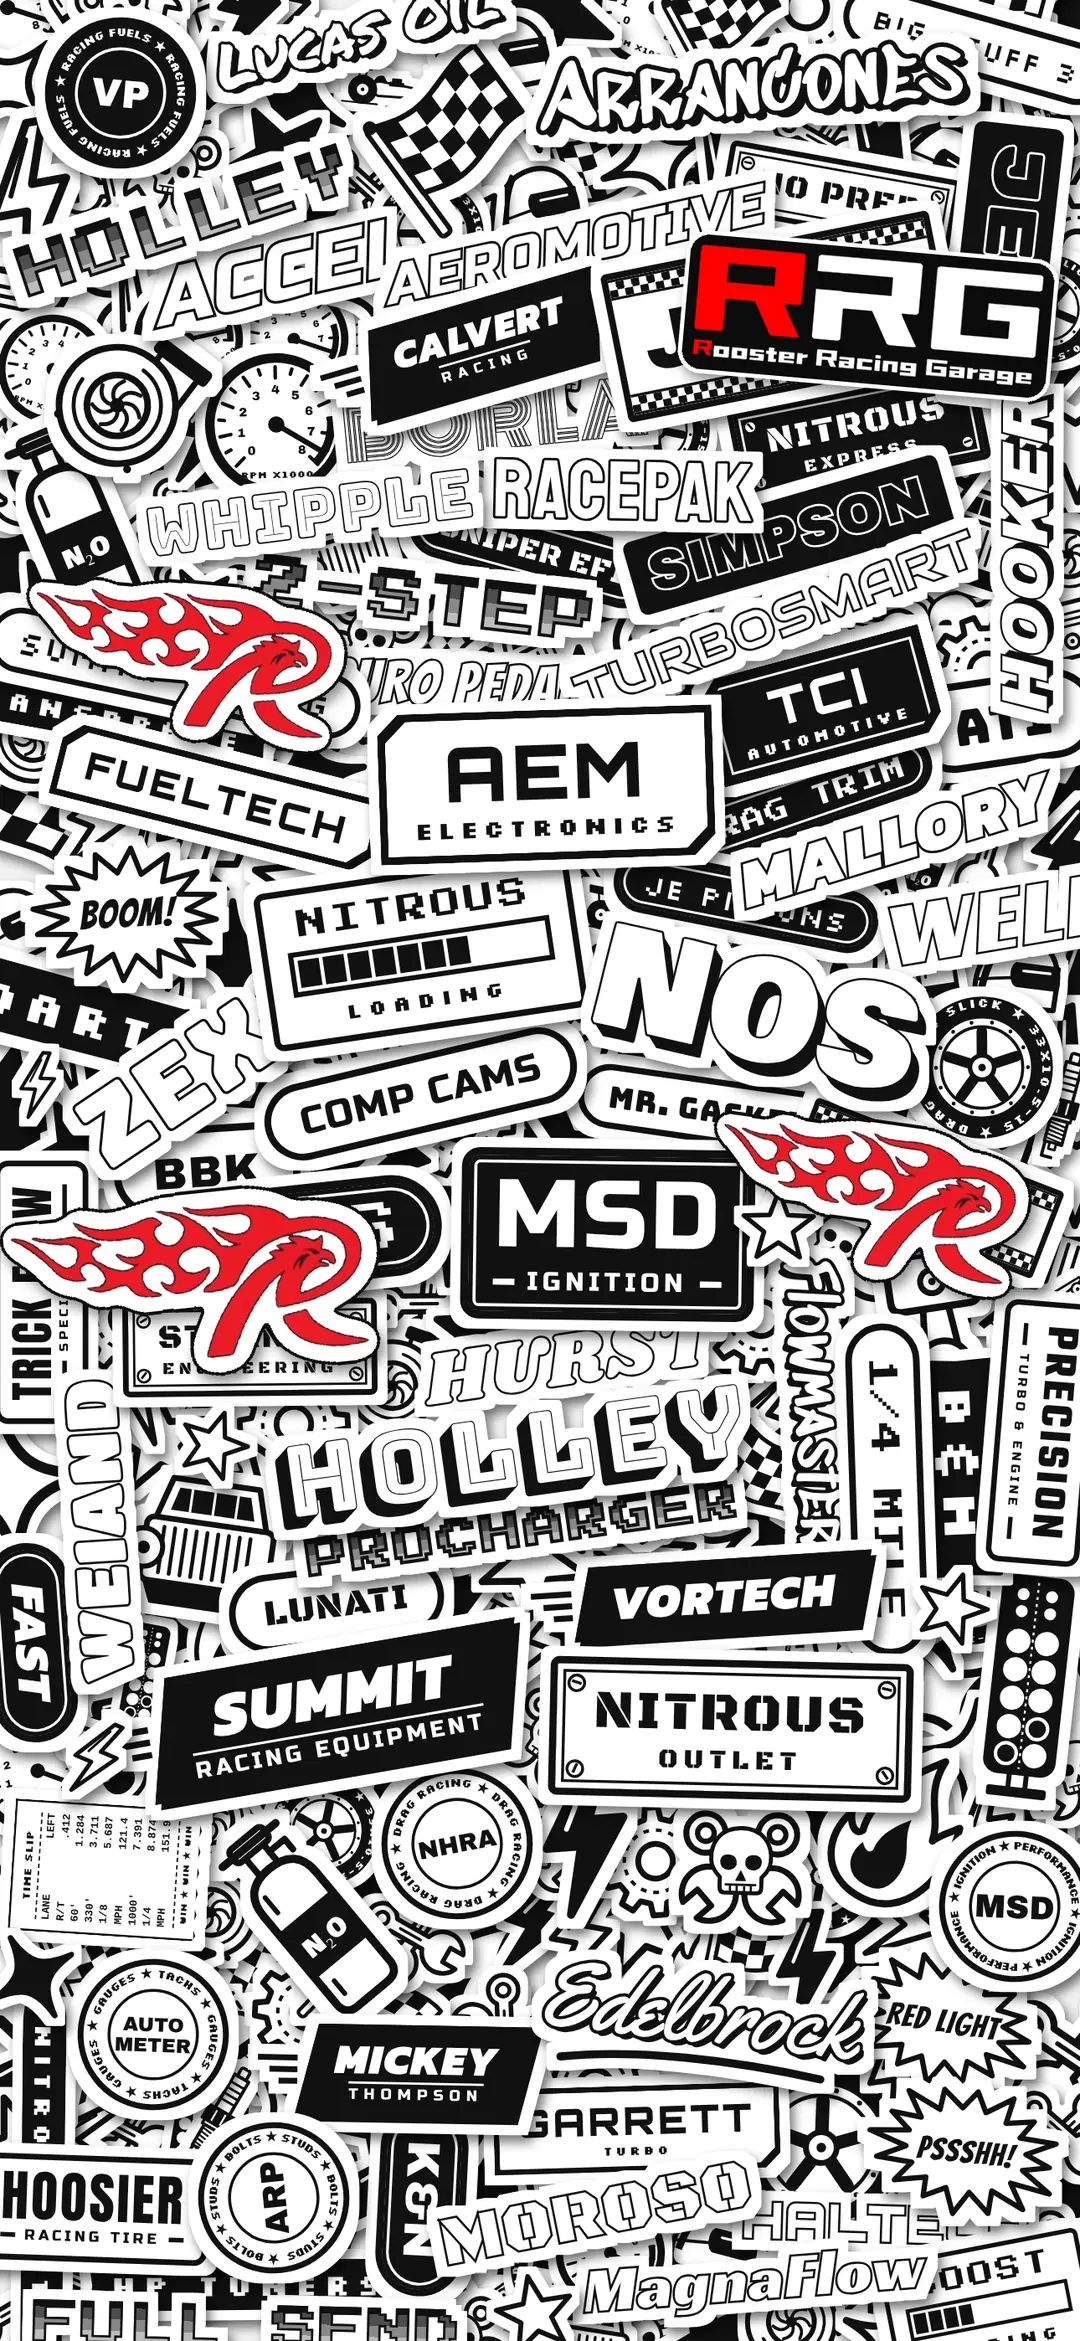
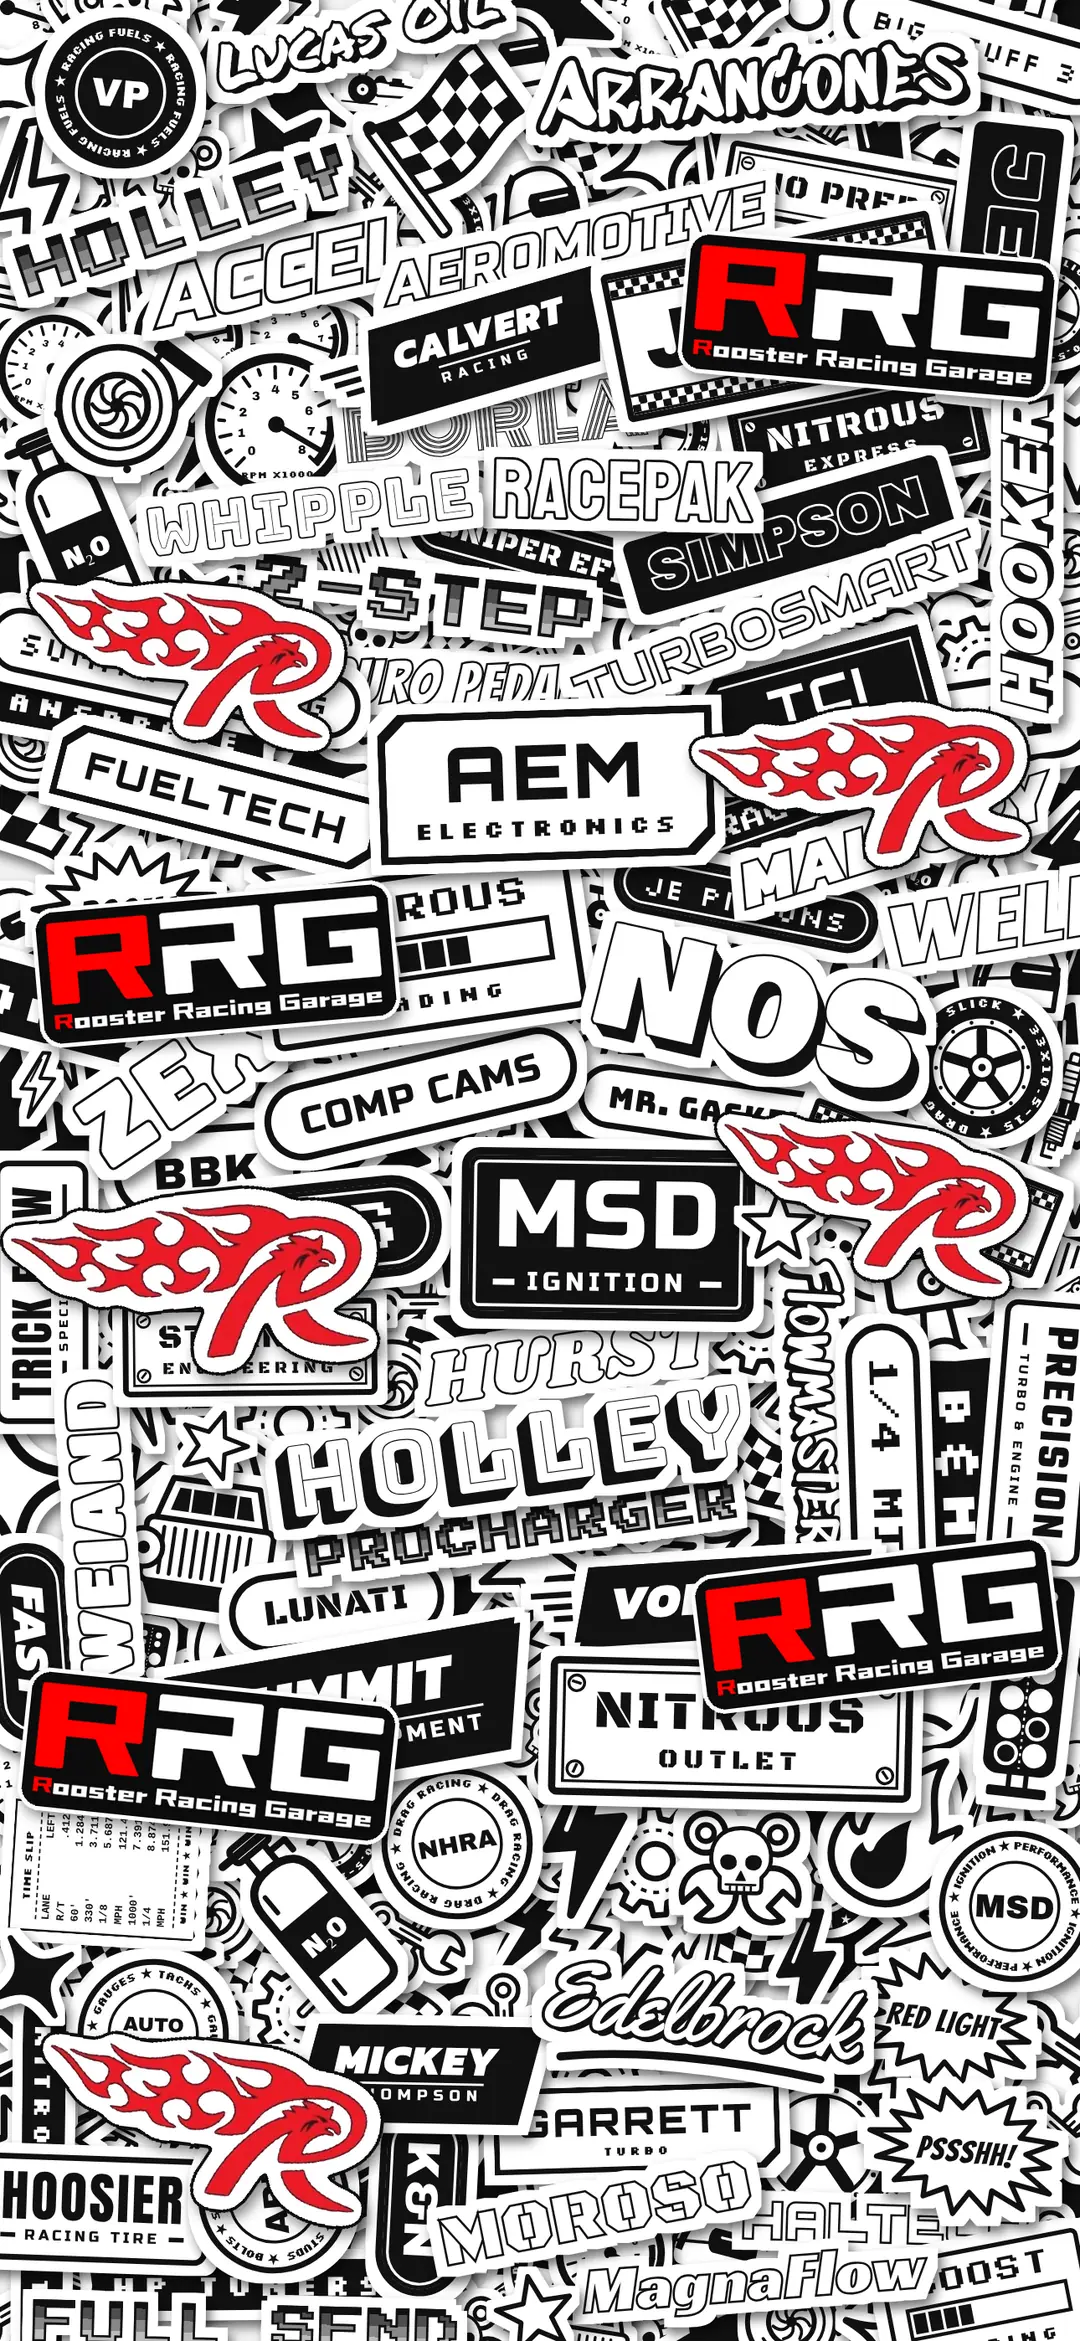
0.8.3: Gallos con 5 R con flamas y 4 RRG
Daniel: "Sí, publícala".

El fondo Gallos trae 5 R con flamas (antes 3) y 4 RRG (antes 1), de pie y
acostado, a los lados del árbol de Práctica; también se prenden en
Práctica.

Pruebas: probar_todo.sh algoritmo calc ui practica instalar matlab carrera,
todo bien salvo el caso conocido de qr_camara_test.py (QR lejos y de lado;
qr.js sin cambios).

Claude-Session: https://claude.ai/code/session_0152EagFVRbY63MJxiLGnruv

diff --git a/sw.js b/sw.js
@@ -1,5 +1,5 @@
 // Service worker: guarda la app para que abra sin internet en la pista.
-const CACHE = 'dragtrim-v-0.8.2';
+const CACHE = 'dragtrim-v-0.8.3';
 const ASSETS = ['./', './index.html', './manifest.webmanifest', './icon-180.png', './icon-192.png', './icon-512.png', './icon-maskable-512.png'];
 self.addEventListener('install', (e) => {
   e.waitUntil(caches.open(CACHE).then((c) => c.addAll(ASSETS)).then(() => self.skipWaiting()));

diff --git a/index.html b/index.html
@@ -8080,7 +8080,7 @@ html.cam-abierta, html.cam-abierta body { overflow: hidden; }
 (function () {
   'use strict';
   const C = window.DragCore;
-  const APP_VERSION = '0.8.2';   // sin "beta" desde 0.6.4 (Daniel quitó la etiqueta)
+  const APP_VERSION = '0.8.3';   // sin "beta" desde 0.6.4 (Daniel quitó la etiqueta)
   const $ = (s) => document.querySelector(s);
   const isFin = Number.isFinite;
 

diff --git a/CLAUDE.md b/CLAUDE.md
@@ -103,7 +103,7 @@ mejor?").
    y deja su forma y su huella en `brillo/rooster-gallos*.png`; `hacer_mascaras.py` (PROPIOS, LOGOS['gallos'] = los del
    Blanco y negro) prende esos logos en verde y en rojo y salta solos los que quedaron tapados (JEGS, STRANGE, cápsula
    NOS). Brillo: verde 12.1 %, rojo 15.3 %.
-   **Más logos de Rooster en Gallos** (0.8.3, **sin publicar**; 8 nov, Daniel: "ponle que aparezca el sticker de RRG otras 3
+   **Más logos de Rooster en Gallos** (**publicado en la 0.8.3**, 8 nov; Daniel: "ponle que aparezca el sticker de RRG otras 3
    veces y el de la R con flamas… otras 2 veces más, o sean 5"): **5 R y 4 RRG**, de pie (LUGAR: a la izquierda R, RRG, R,
    RRG, R y a la derecha RRG, R, R, RRG, todos fuera de la columna del árbol) y acostado (LUGAR_ACOSTADO en acostados.py,
    a los dos lados del árbol, sin tocar la orilla). Tapan más logos del Blanco y negro: `hacer_mascaras.py` ahora también
@@ -559,7 +559,8 @@ archivo/                       respaldo: originales/ (archivos de Daniel sin toc
 ```
 
 Versionado: `APP_VERSION` en `app.js` (se ve en Ajustes) y `VERSION` en `build.py` (nombre de la
-caché del service worker; cambiarlo fuerza la actualización). Publicada: **0.8.2** (7 nov 2026, Daniel: "Sí, publícala": los 8
+caché del service worker; cambiarlo fuerza la actualización). Publicada: **0.8.3** (8 nov 2026, Daniel: "Sí, publícala": el fondo
+Gallos con 5 R con flamas y 4 RRG, de pie y acostado, punto 7); antes **0.8.2** (7 nov 2026: los 8
 fondos con su versión para el teléfono acostado, con los stickers del mismo tamaño que de pie; Práctica acostada con el árbol de
 arriba a abajo y los botones 1/3 más chicos; fondo nuevo "Rooster" con 3 R de Rooster Racing, 3 Ford, 3 Chevrolet y las marcas
 que eligió Daniel; punto 7); antes **0.8.1** (1 nov 2026: las carátulas se llaman 1, 2
